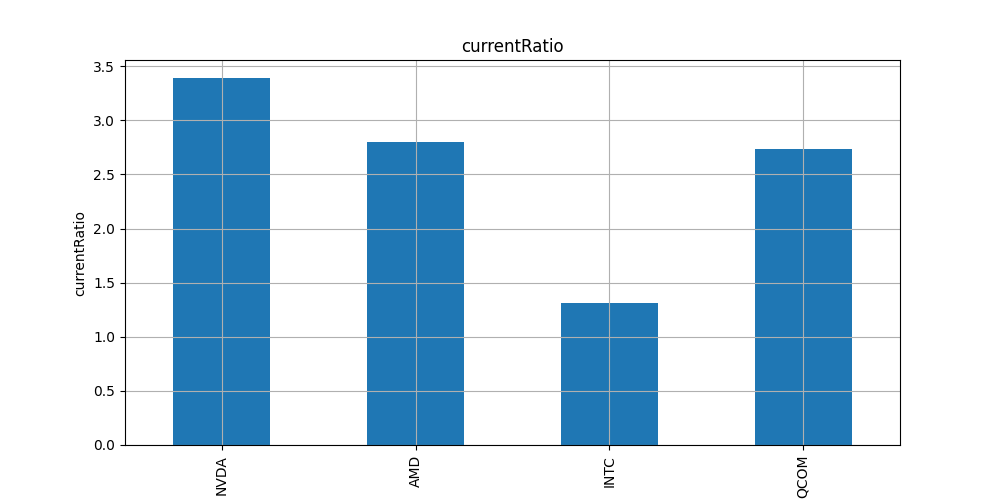
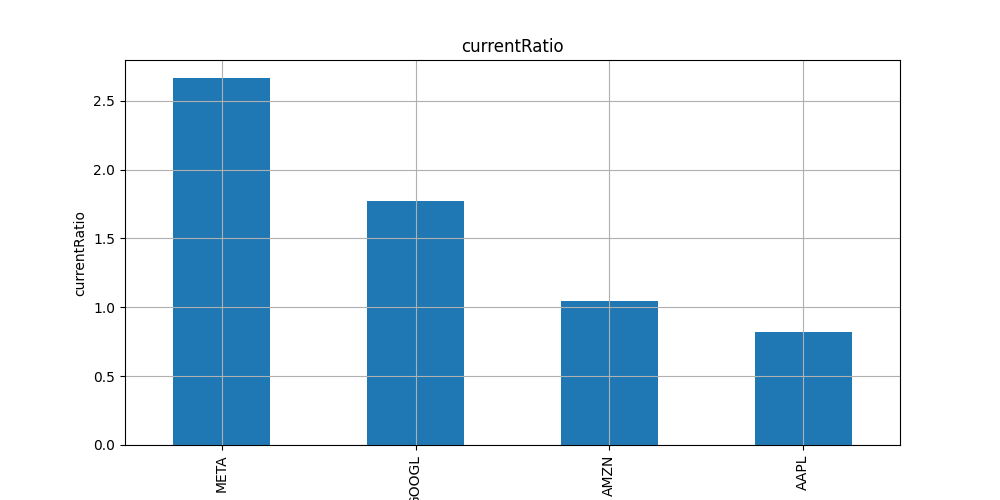
test

diff --git a/portfolio-management/scripts/fundamental_analysis.py b/portfolio-management/scripts/fundamental_analysis.py
@@ -19,13 +19,14 @@ class FinancialAnalyzer:
             return "N/A"
         
     def _print_values(self, metric, values):
-        """Print values for a given metric."""
+        """Print values for a given metric, excluding the year 2020."""
         if isinstance(values, pd.Series):
             print(f"  {metric}:")
             for date, value in values.items():
-                formatted_date = date.strftime('%Y-%m-%d')
-                formatted_value = self._format_currency(value)  
-                print(f"    {formatted_date}: {formatted_value}")
+                if date.year != 2020:  # Exclude the year 2020
+                    formatted_date = date.strftime('%Y-%m-%d')
+                    formatted_value = self._format_currency(value)  
+                    print(f"    {formatted_date}: {formatted_value}")
         else:
             formatted_value = self._format_currency(values)  
             print(f"  {metric}: {formatted_value}")
@@ -175,7 +176,7 @@ class FinancialAnalyzer:
             return []
 
     def get_financial_ratios(self):
-        """Retrieve and print financial ratios for the given ticker."""
+        """Retrieve and print financial ratios for the given ticker, handling NaNs."""
         try:
             info = self.company.info
             if not info:
@@ -183,25 +184,23 @@ class FinancialAnalyzer:
             
             ratios = {
                 "Valuation Ratios": {
-                    "P/E Ratio": info.get('trailingPE', 'N/A'),
-                    "P/B Ratio": info.get('priceToBook', 'N/A'),
-                    "P/S Ratio": info.get('priceToSalesTrailing12Months', 'N/A'),
-                    "Forward P/E": info.get('forwardPE', 'N/A'),
-                    "PEG Ratio": info.get('pegRatio', 'N/A')
+                    "P/E Ratio": info.get('trailingPE'),
+                    "P/B Ratio": info.get('priceToBook'),
+                    "P/S Ratio": info.get('priceToSalesTrailing12Months'),
+                    "Forward P/E": info.get('forwardPE')
                 },
                 "Profitability Ratios": {
-                    "ROE": info.get('returnOnEquity', 'N/A'),
-                    "ROA": info.get('returnOnAssets', 'N/A'),
-                    "Operating Margin": info.get('operatingMargins', 'N/A'),
-                    "Gross Margin": info.get('grossMargins', 'N/A')
+                    "ROE": info.get('returnOnEquity'),
+                    "ROA": info.get('returnOnAssets'),
+                    "Operating Margin": info.get('operatingMargins'),
+                    "Gross Margin": info.get('grossMargins')
                 },
                 "Liquidity Ratios": {
-                    "Current Ratio": info.get('currentRatio', 'N/A'),
-                    "Quick Ratio": info.get('quickRatio', 'N/A')
+                    "Current Ratio": info.get('currentRatio'),
+                    "Quick Ratio": info.get('quickRatio')
                 },
                 "Debt Ratios": {
-                    "Debt-to-Equity Ratio": info.get('debtToEquity', 'N/A'),
-                    "Interest Coverage": info.get('interestCoverage', 'N/A')
+                    "Debt-to-Equity Ratio": info.get('debtToEquity')
                 }
             }
 
@@ -210,10 +209,13 @@ class FinancialAnalyzer:
             for category, ratio_dict in ratios.items():
                 print(f"\n{category}:")
                 for ratio, value in ratio_dict.items():
-                    if isinstance(value, float):
-                        print(f"  {ratio}: {value:.2f}" if ratio != "Interest Coverage" else f"  {ratio}: {value:.1f}")
+                    if value is not None:
+                        if isinstance(value, float):
+                            print(f"  {ratio}: {value:.2f}" if ratio != "Interest Coverage" else f"  {ratio}: {value:.1f}")
+                        else:
+                            print(f"  {ratio}: {value}")
                     else:
-                        print(f"  {ratio}: {value}")
+                        print(f"  {ratio}: N/A (data not available)")
 
         except Exception as e:
             print(f"Error retrieving financial ratios for {self.ticker}: {str(e)}")
@@ -227,14 +229,17 @@ class FinancialAnalyzer:
             print(f"\n{'='*50}")
             print(f"Dividend Analysis for {self.ticker}:")
             
-            # Basic data
+            # Debugging: Print raw dividend yield data
             current_yield = info.get('dividendYield', 'N/A')
+
+            # Correct the calculation of the Current Dividend Yield
+            print(f"\n  Current Dividend Yield: {current_yield if isinstance(current_yield, float) else 'N/A'}%")
+            
+            # Basic data
             payout_ratio = info.get('payoutRatio', 'N/A')
             five_year_growth = info.get('fiveYearAvgDividendYield', 'N/A')
             
-            print(f"\n  Current Dividend Yield: {current_yield*100 if isinstance(current_yield, float) else 'N/A'}%")
-            print(f"  Payout Ratio: {payout_ratio*100 if isinstance(payout_ratio, float) else 'N/A'}%")
-            print(f"  5-Year Average Yield: {five_year_growth*100 if isinstance(five_year_growth, float) else 'N/A'}%")
+            print(f"\n  Payout Ratio: {payout_ratio*100 if isinstance(payout_ratio, float) else 'N/A'}%")
             
             # Dividend history
             if not div_info.empty:
@@ -263,9 +268,6 @@ class FinancialAnalyzer:
             growth_metrics = {
                 "Revenue Growth (YoY)": info.get('revenueGrowth', 'N/A'),
                 "Earnings Growth (YoY)": info.get('earningsGrowth', 'N/A'),
-                "Quarterly Revenue Growth (YoY)": info.get('quarterlyRevenueGrowth', 'N/A'),
-                "Quarterly Earnings Growth (YoY)": info.get('quarterlyEarningsGrowth', 'N/A'),
-                "5-Year Revenue Growth Rate": info.get('fiveYearAvgDividendYield', 'N/A'),
                 "Next 5 Years Growth Estimate": info.get('earningsQuarterlyGrowth', 'N/A')
             }
             
@@ -354,25 +356,27 @@ class FinancialAnalyzer:
                 "Float": self._format_currency(info.get('floatShares')),
                 "Institutional Ownership": f"{info.get('heldPercentInstitutions', 'N/A')*100:.2f}%" if isinstance(info.get('heldPercentInstitutions'), float) else 'N/A',
                 "Insider Ownership": f"{info.get('heldPercentInsiders', 'N/A')*100:.2f}%" if isinstance(info.get('heldPercentInsiders'), float) else 'N/A',
-                "Forward P/E": info.get('forwardPE', 'N/A'),
-                "PEG Ratio": info.get('pegRatio', 'N/A')
+                "Forward P/E": info.get('forwardPE'),
             }
             
             print(f"\n{'='*50}")
             print(f"Additional Metrics for {self.ticker}:")
             for metric, value in additional_metrics.items():
-                print(f"  {metric}: {value}")
-                
+                if value is not None:
+                    print(f"  {metric}: {value}")
+                else:
+                    print(f"  {metric}: N/A (data not available)")
+                    
         except Exception as e:
-            print(f"Error retrieving additional metrics: {str(e)}")
+            print(f"Error retrieving additional metrics for {self.ticker}: {str(e)}")
 
     def calculate_cagr(self, series, years):
-        """Calculate Compound Annual Growth Rate"""
-        if len(series) < 2:
+        """Calculate Compound Annual Growth Rate, ensuring sufficient data."""
+        if len(series.dropna()) < 2:  # Ensure there are at least two non-NaN data points
             return "N/A (insufficient data)"
         try:
-            start = series.iloc[-1]
-            end = series.iloc[0]
+            start = series.dropna().iloc[-1]
+            end = series.dropna().iloc[0]
             return (end/start)**(1/years) - 1
         except:
             return "N/A"
@@ -394,8 +398,8 @@ class FinancialAnalyzer:
             if num_years >= 2:
                 # Revenue growth
                 if 'Total Revenue' in is_.index:
-                    rev_growth = self.calculate_cagr(is_.loc['Total Revenue'], num_years-1)
-                    print(f"\n  Revenue CAGR ({num_years-1} years): {rev_growth*100:.2f}%" if isinstance(rev_growth, float) else f"  Revenue CAGR: {rev_growth}")
+                    rev_growth = self.calculate_cagr(is_.loc['Total Revenue'], num_years)
+                    print(f"\n  Revenue CAGR ({num_years} years): {rev_growth*100:.2f}%" if isinstance(rev_growth, float) else f"  Revenue CAGR: {rev_growth}")
                 
                 # EPS growth
                 if 'Net Income' in is_.index and 'sharesOutstanding' in self.company.info:
@@ -403,17 +407,17 @@ class FinancialAnalyzer:
                     shares = self.company.info['sharesOutstanding']
                     eps = net_income / shares
                     eps_growth = self.calculate_cagr(eps, num_years-1)
-                    print(f"  EPS CAGR ({num_years-1} years): {eps_growth*100:.2f}%" if isinstance(eps_growth, float) else f"  EPS CAGR: {eps_growth}")
+                    print(f"  EPS CAGR ({num_years} years): {eps_growth*100:.2f}%" if isinstance(eps_growth, float) else f"  EPS CAGR: {eps_growth}")
                 
                 # Free cash flow growth
                 if 'Free Cash Flow' in cf.index:
                     fcf_growth = self.calculate_cagr(cf.loc['Free Cash Flow'], num_years-1)
-                    print(f"  FCF CAGR ({num_years-1} years): {fcf_growth*100:.2f}%" if isinstance(fcf_growth, float) else f"  FCF CAGR: {fcf_growth}")
+                    print(f"  FCF CAGR ({num_years} years): {fcf_growth*100:.2f}%" if isinstance(fcf_growth, float) else f"  FCF CAGR: {fcf_growth}")
                 
                 # Equity growth
                 if 'Total Equity Gross Minority Interest' in bs.index:
                     equity_growth = self.calculate_cagr(bs.loc['Total Equity Gross Minority Interest'], num_years-1)
-                    print(f"  Equity CAGR ({num_years-1} years): {equity_growth*100:.2f}%" if isinstance(equity_growth, float) else f"  Equity CAGR: {equity_growth}")
+                    print(f"  Equity CAGR ({num_years} years): {equity_growth*100:.2f}%" if isinstance(equity_growth, float) else f"  Equity CAGR: {equity_growth}")
             else:
                 print("\n  Insufficient data for trend analysis (need at least 2 years of data)")
                 
@@ -422,8 +426,8 @@ class FinancialAnalyzer:
 
 # Example usage
 if __name__ == "__main__":
-    ticker = "NVDA"
-    peers = ["AMD", "INTC", "QCOM"]  
+    ticker = "META"
+    peers = ["GOOGL", "AMZN", "AAPL"]  
     
     analyzer = FinancialAnalyzer(ticker)
     

diff --git a/portfolio-management/scripts/technical_analysis.py b/portfolio-management/scripts/technical_analysis.py
@@ -331,7 +331,7 @@ def plot_candlestick_and_bollinger(df, ticker):
     plt.savefig(f'/home/marcos/Escritorio/mhp/quantitative-analysis-finance/portfolio-management/visualizations/{ticker}_candlestick_bollinger_plot.png')  # Save the combined plot
 
 # Call the function with user-specified parameters
-ticker = 'AAPL'  # You can change this to any ticker you want
+ticker = 'META'  # You can change this to any ticker you want
 start_date = input("Ingrese la fecha de inicio (YYYY-MM-DD): ")
 end_date = input("Ingrese la fecha de fin (YYYY-MM-DD): ")
 interval = input("Ingrese el intervalo de datos ('daily', 'weekly', 'monthly'): ")
